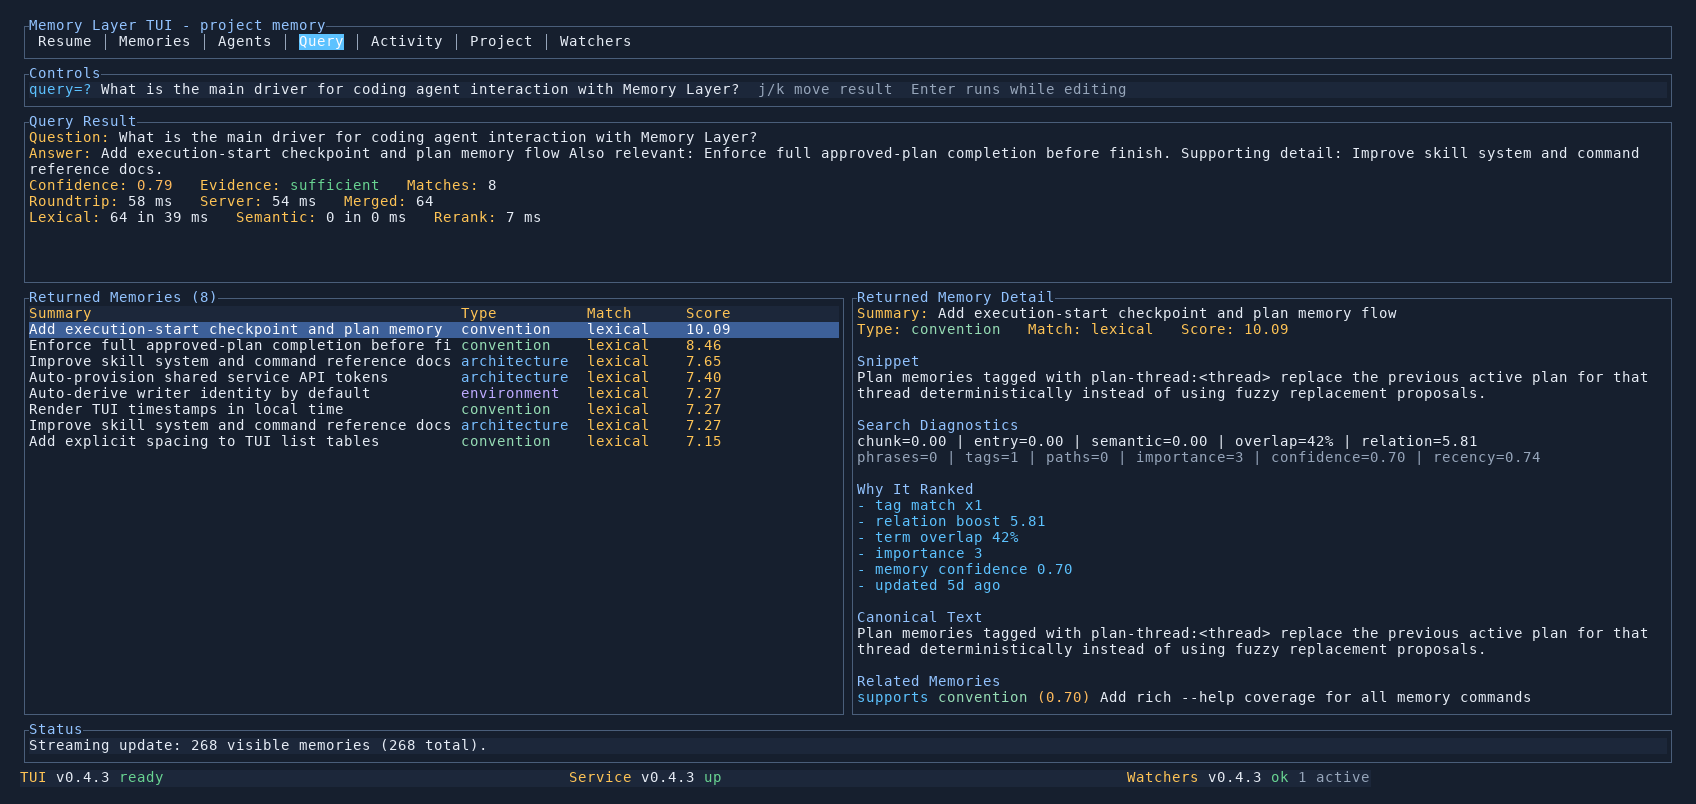
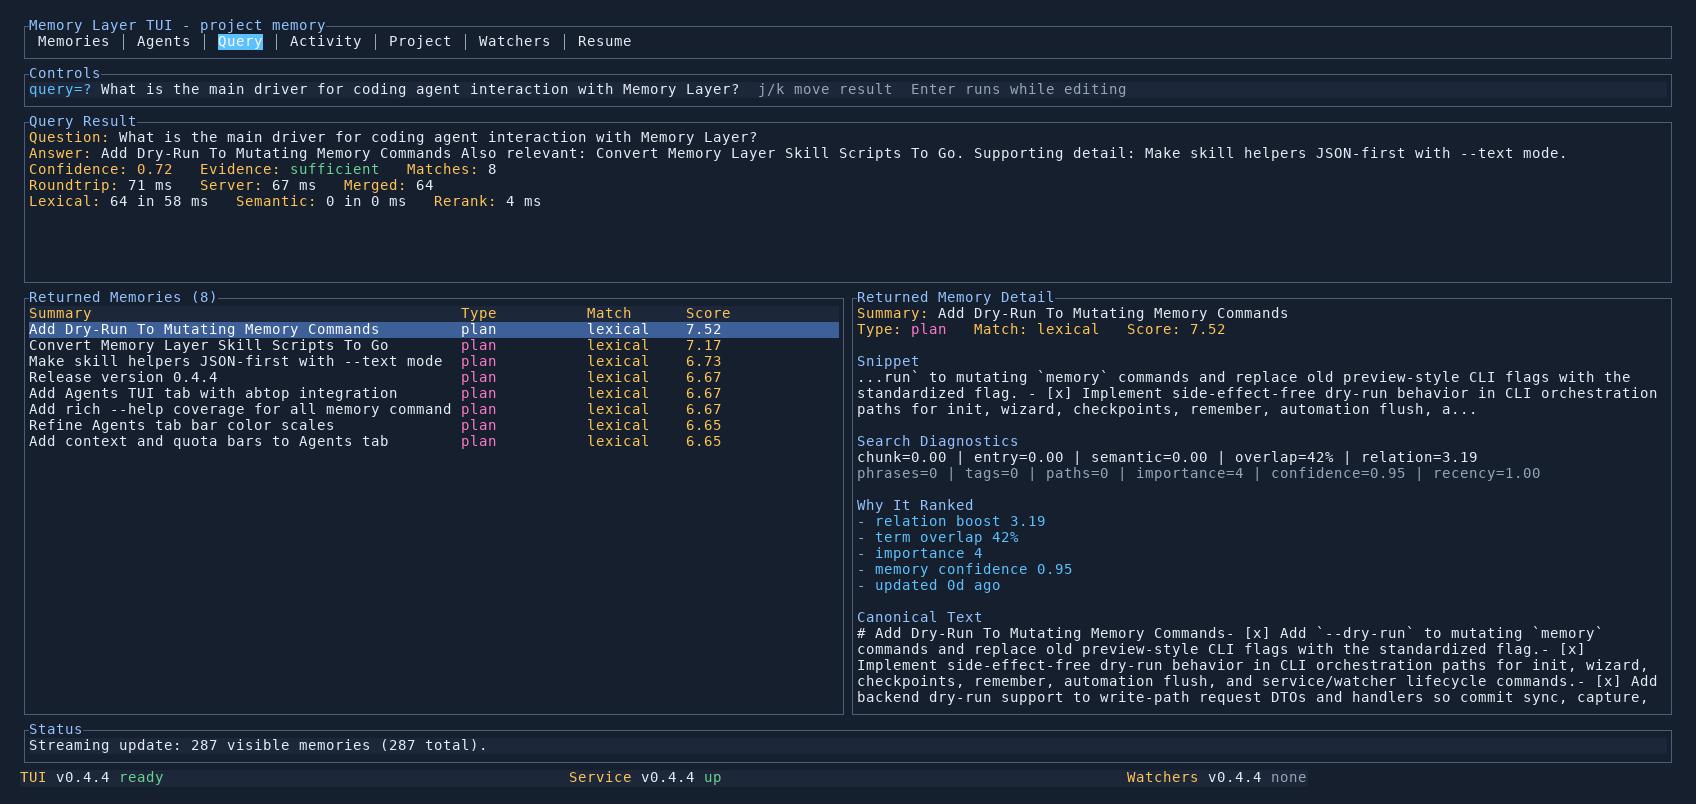
Docs: refresh screenshots and add Pages docs entry (3VI-508)

diff --git a/scripts/generate-tui-doc-screenshots.py b/scripts/generate-tui-doc-screenshots.py
@@ -244,6 +244,10 @@ def main() -> int:
         screenshots["overview.png"] = memories
         screenshots["memories-tab.png"] = memories
 
+        send_keys(tui_session, "Tab")
+        sleep_for(0.6)
+        screenshots["agents-tab.png"] = capture_pane(tui_session)
+
         send_keys(tui_session, "?")
         sleep_for(0.3)
         send_keys(tui_session, QUERY_TEXT, literal=True)
@@ -254,10 +258,6 @@ def main() -> int:
         send_keys(tui_session, "Tab")
         sleep_for(0.6)
         screenshots["activity-tab.png"] = capture_pane(tui_session)
-
-        send_keys(tui_session, "Tab")
-        sleep_for(0.6)
-        screenshots["agents-tab.png"] = capture_pane(tui_session)
 
         send_keys(tui_session, "Tab")
         sleep_for(0.6)

diff --git a/docs/user/tui/README.md b/docs/user/tui/README.md
@@ -22,8 +22,6 @@ Shared navigation:
 
 ## Tabs
 
-- [Resume Tab](resume.md)
-  - Start here after an interruption. It shows the current work thread, suggested next step, and recent timeline.
 - [Memories Tab](memories.md)
   - Browse the canonical memory list, filter it, and inspect one memory entry in detail.
 - [Agents Tab](agents.md)
@@ -36,13 +34,15 @@ Shared navigation:
   - Inspect project-level health, counts, embedding state, automation status, and replacement proposals.
 - [Watchers Tab](watchers.md)
   - See active watchers, heartbeat state, restart attempts, and watcher recovery details.
+- [Resume Tab](resume.md)
+  - Use this after an interruption to get the current work thread, suggested next step, and recent timeline.
 
 ## Where To Start
 
-- If you are returning after time away, open [Resume Tab](resume.md).
 - If you want to inspect or filter stored memory, open [Memories Tab](memories.md).
 - If you want to ask a question directly, open [Query Tab](query.md).
 - If you want to watch active coding-agent sessions across projects, open [Agents Tab](agents.md).
 - If you want to understand what changed recently, open [Activity Tab](activity.md).
 - If you want high-level health and pending review work, open [Project Tab](project.md).
 - If you want watcher liveness and watchdog status, open [Watchers Tab](watchers.md).
+- If you are returning after time away, open [Resume Tab](resume.md) for the re-entry briefing.

diff --git a/docs/index.md b/docs/index.md
@@ -1,0 +1,27 @@
+# Memory Layer Docs
+
+Memory Layer is a local-first project memory system for coding agents and developers. These docs cover installation, day-to-day usage, the TUI, and the internal architecture.
+
+![Memory Layer TUI overview](img/tui/overview.png)
+
+## Start Here
+
+- [Getting Started](user/getting-started.md)
+- [TUI Guide](user/tui/README.md)
+- [User Documentation Index](user/README.md)
+
+## CLI Reference
+
+- [Wizard And Bootstrap](user/cli/wizard.md)
+- [Service Commands](user/cli/service.md)
+- [Doctor Diagnostics](user/cli/doctor.md)
+- [Remember Command](user/cli/remember.md)
+- [Checkpoint Workflow](user/cli/checkpoint.md)
+- [Watcher Health](user/cli/watchers.md)
+
+## Developer Docs
+
+- [Developer Documentation Index](developer/README.md)
+- [How Skills Work](developer/skills/how-skills-work.md)
+- [Architecture Overview](developer/architecture/overview.md)
+- [How Memory Layer Works](developer/architecture/how-it-works.md)
